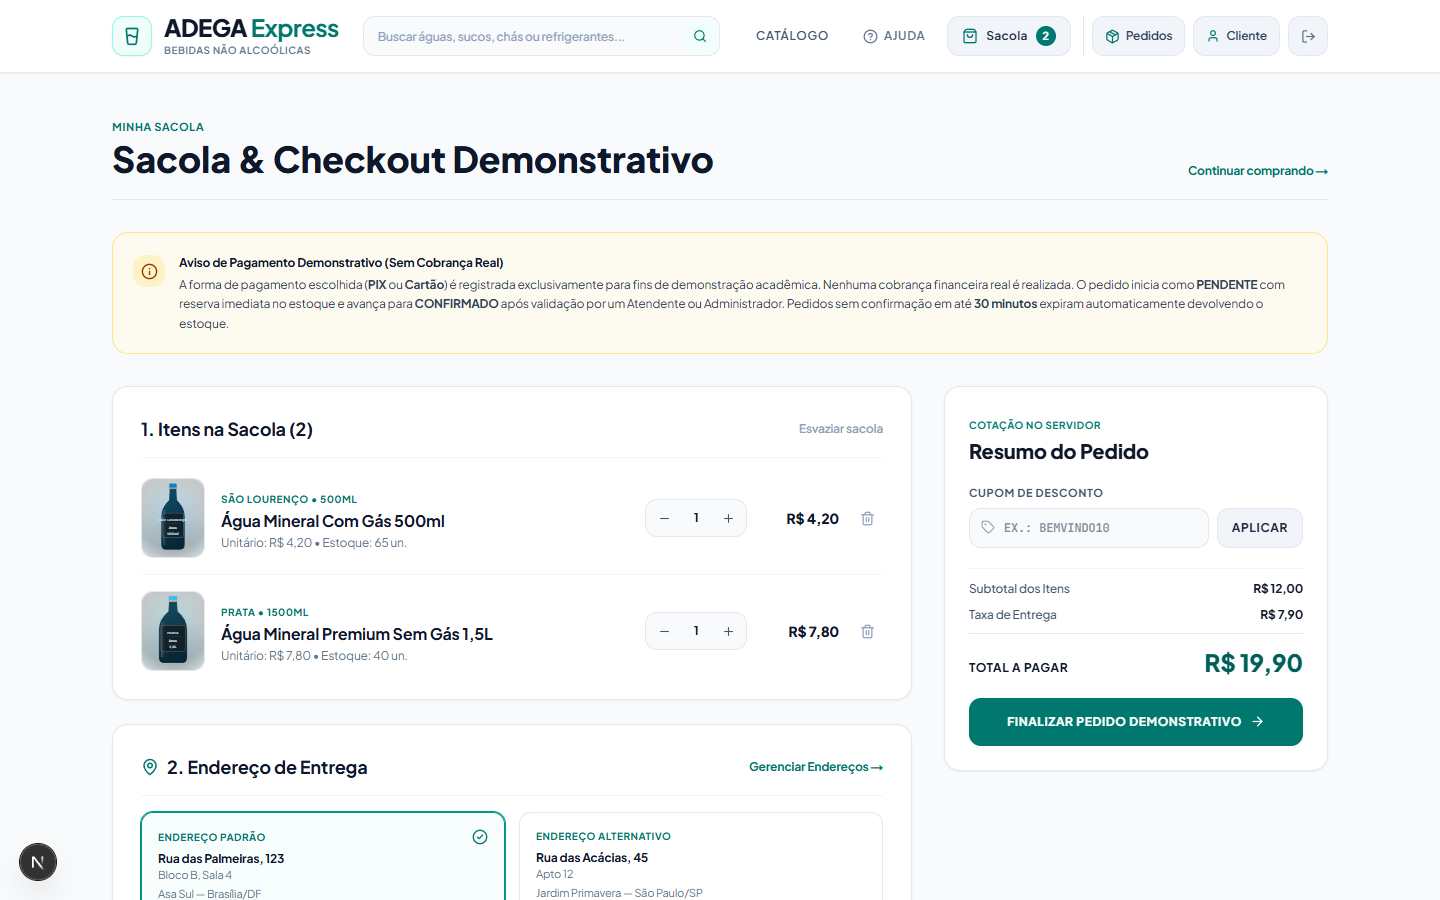
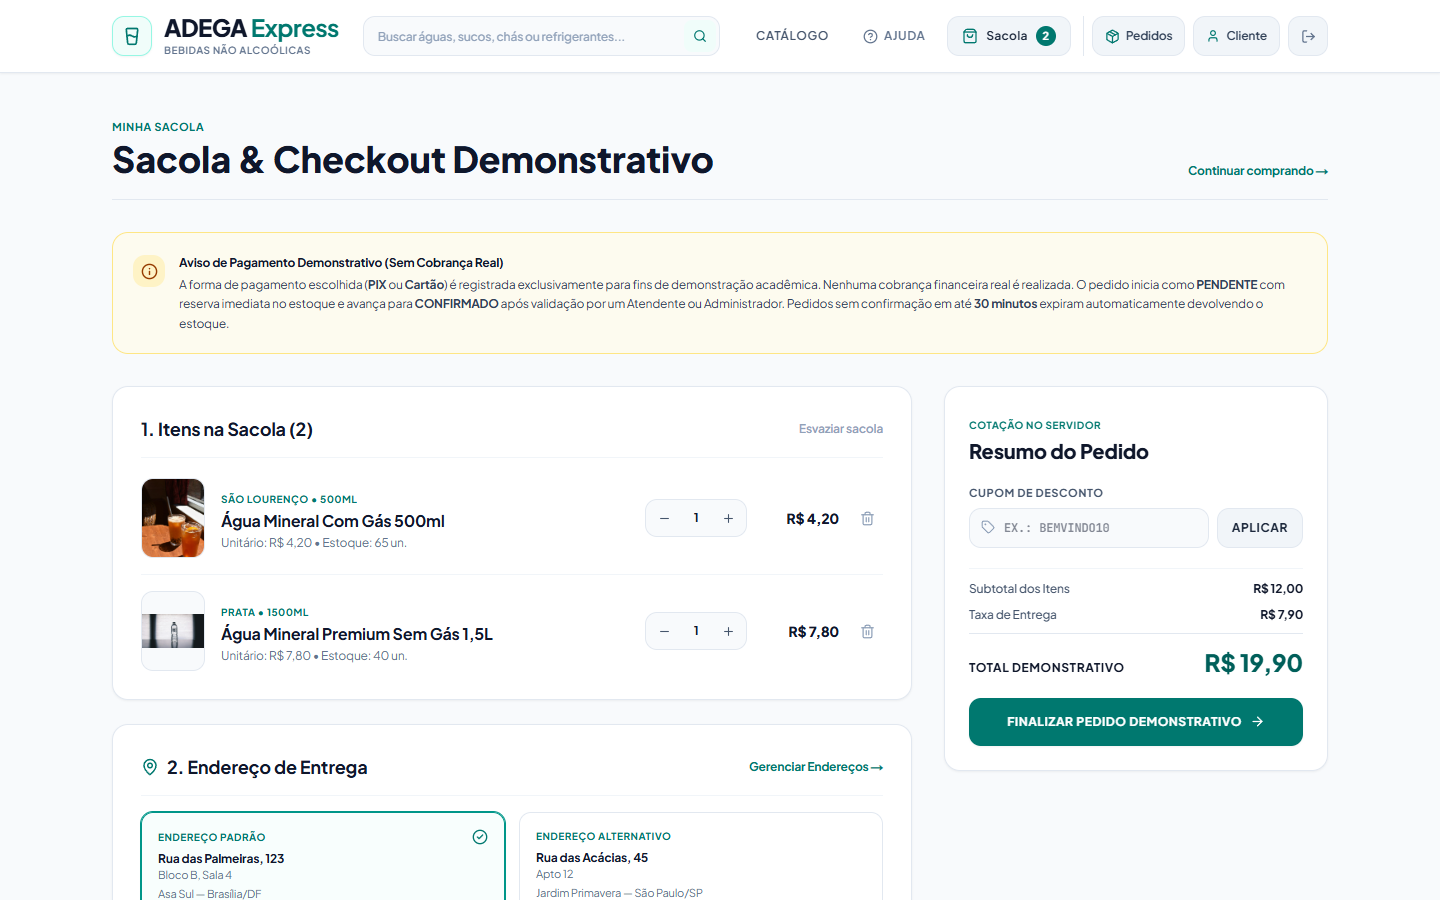
feat(catalog): adicionar fotos reais dos produtos no catalogo e atualizar prints

diff --git a/adega-express-backend/prisma/seed-demo.ts b/adega-express-backend/prisma/seed-demo.ts
@@ -196,6 +196,7 @@ async function seedDemo() {
       volume_ml: 500,
       abv_percent: '0.00',
       stock_quantity: 80,
+      image_url: '/products/agua-minalba-500ml.jpg',
       description: 'Água mineral natural pura de fonte montanhosa, embalagem 500ml prática.',
     },
     {
@@ -206,6 +207,7 @@ async function seedDemo() {
       volume_ml: 500,
       abv_percent: '0.00',
       stock_quantity: 65,
+      image_url: '/products/agua-sao-lourenco-500ml.jpg',
       description: 'Água mineral naturalmente gaseificada com borbulhas finas e equilíbrio mineral.',
     },
     {
@@ -216,6 +218,7 @@ async function seedDemo() {
       volume_ml: 1500,
       abv_percent: '0.00',
       stock_quantity: 40,
+      image_url: '/products/agua-prata-1500ml.jpg',
       description: 'Embalagem familiar de 1,5L com baixa mineralidade ideal para a mesa diária.',
     },
     {
@@ -226,6 +229,7 @@ async function seedDemo() {
       volume_ml: 350,
       abv_percent: '0.00',
       stock_quantity: 0, // ESTOQUE ZERO (Em Falta)
+      image_url: '/products/agua-tonica-antarctica-350ml.jpg',
       description: 'Refrigerante de água tônica com quinino e toques cítricos, zero açúcar.',
     },
 
@@ -238,6 +242,7 @@ async function seedDemo() {
       volume_ml: 1000,
       abv_percent: '0.00',
       stock_quantity: 35,
+      image_url: '/products/suco-aurora-uva-1000ml.jpg',
       description: 'Suco de uva integral 100% fruta, sem conservantes e rico em polifenóis.',
     },
     {
@@ -248,6 +253,7 @@ async function seedDemo() {
       volume_ml: 900,
       abv_percent: '0.00',
       stock_quantity: 50,
+      image_url: '/products/suco-natural-one-laranja-900ml.jpg',
       description: 'Laranja fresca espremida a frio, sabor doce natural e alto teor de Vitamina C.',
     },
     {
@@ -258,6 +264,7 @@ async function seedDemo() {
       volume_ml: 1000,
       abv_percent: '0.00',
       stock_quantity: 28,
+      image_url: '/products/suco-campo-largo-maca-1000ml.jpg',
       description: 'Suco de maçã clarificado 100% puro, sabor suave e equilibrado.',
     },
     {
@@ -268,6 +275,7 @@ async function seedDemo() {
       volume_ml: 1000,
       abv_percent: '0.00',
       stock_quantity: 30,
+      image_url: '/products/nectar-maguary-maracuja-1000ml.jpg',
       description: 'Polpa selecionada de maracujá, sabor marcante e refrescância cítrica.',
     },
 
@@ -280,6 +288,7 @@ async function seedDemo() {
       volume_ml: 350,
       abv_percent: '0.00',
       stock_quantity: 90,
+      image_url: '/products/refri-guarana-antarctica-350ml.jpg',
       description: 'O clássico refrigerante nacional produzido com sementes legítimas de guaraná da Amazônia.',
     },
     {
@@ -290,6 +299,7 @@ async function seedDemo() {
       volume_ml: 350,
       abv_percent: '0.00',
       stock_quantity: 120,
+      image_url: '/products/refri-coca-cola-350ml.jpg',
       description: 'Refrigerante de cola tradicional em lata de 350ml gelada.',
     },
     {
@@ -300,6 +310,7 @@ async function seedDemo() {
       volume_ml: 500,
       abv_percent: '0.00',
       stock_quantity: 45,
+      image_url: '/products/refri-sprite-lemon-500ml.jpg',
       description: 'Levemente gaseificada com suco de limão natural, refrescância instantânea.',
     },
     {
@@ -310,6 +321,7 @@ async function seedDemo() {
       volume_ml: 350,
       abv_percent: '0.00',
       stock_quantity: 25,
+      image_url: '/products/refri-ginger-ale-350ml.jpg',
       description: 'Mixer e refrigerante botânico de gengibre aromático e toques cítricos.',
     },
 
@@ -322,6 +334,7 @@ async function seedDemo() {
       volume_ml: 1500,
       abv_percent: '0.00',
       stock_quantity: 40,
+      image_url: '/products/cha-matte-leao-1500ml.jpg',
       description: 'Tostado de erva-mate enriquecido com suco de limão natural, formato 1,5L.',
     },
     {
@@ -332,6 +345,7 @@ async function seedDemo() {
       volume_ml: 450,
       abv_percent: '0.00',
       stock_quantity: 55,
+      image_url: '/products/cha-fuze-pessego-450ml.jpg',
       description: 'Folhas de chá preto infusionadas com sabor envolvente de pêssego.',
     },
     {
@@ -342,6 +356,7 @@ async function seedDemo() {
       volume_ml: 1000,
       abv_percent: '0.00',
       stock_quantity: 32,
+      image_url: '/products/cha-feel-good-verde-1000ml.jpg',
       description: 'Chá verde antioxidante aromatizado com limão e hortelã fresca, zero calorias.',
     },
     {
@@ -352,6 +367,7 @@ async function seedDemo() {
       volume_ml: 450,
       abv_percent: '0.00',
       stock_quantity: 0, // ESTOQUE ZERO (Em Falta)
+      image_url: '/products/cha-wewi-hibisco-450ml.jpg',
       description: 'Infusão orgânica botânica de flores de hibisco com notas de frutas vermelhas.',
     },
   ];

diff --git a/adega-express-backend/prisma/update-images.ts b/adega-express-backend/prisma/update-images.ts
@@ -1,0 +1,37 @@
+import { PrismaClient } from '@prisma/client';
+
+const db = new PrismaClient();
+
+const imageMapping: Record<string, string> = {
+  'Água Mineral Sem Gás 500ml': '/products/agua-minalba-500ml.jpg',
+  'Água Mineral Com Gás 500ml': '/products/agua-sao-lourenco-500ml.jpg',
+  'Água Mineral Premium Sem Gás 1,5L': '/products/agua-prata-1500ml.jpg',
+  'Água Tônica Citrus Sem Açúcar 350ml': '/products/agua-tonica-antarctica-350ml.jpg',
+  'Suco Integral de Uva Tinto 1L': '/products/suco-aurora-uva-1000ml.jpg',
+  'Suco de Laranja Integral 900ml': '/products/suco-natural-one-laranja-900ml.jpg',
+  'Suco de Maçã Integral 1L': '/products/suco-campo-largo-maca-1000ml.jpg',
+  'Néctar de Maracujá 1L': '/products/nectar-maguary-maracuja-1000ml.jpg',
+  'Refrigerante Guaraná Antarctica 350ml': '/products/refri-guarana-antarctica-350ml.jpg',
+  'Coca-Cola Original 350ml Lata': '/products/refri-coca-cola-350ml.jpg',
+  'Refrigerante Sprite Lemon Fresh 500ml': '/products/refri-sprite-lemon-500ml.jpg',
+  'Refrigerante de Gengibre Ginger Ale 350ml': '/products/refri-ginger-ale-350ml.jpg',
+  'Chá Gelado Matte Limão 1,5L': '/products/cha-matte-leao-1500ml.jpg',
+  'Chá Gelado de Pêssego 450ml': '/products/cha-fuze-pessego-450ml.jpg',
+  'Chá Verde com Limão e Hortelã 1L': '/products/cha-feel-good-verde-1000ml.jpg',
+  'Infusão Hibisco com Cranberry 450ml': '/products/cha-wewi-hibisco-450ml.jpg',
+};
+
+async function main() {
+  console.log('Atualizando imagens dos produtos no banco de dados...');
+  for (const [name, imageUrl] of Object.entries(imageMapping)) {
+    const updated = await db.product.updateMany({
+      where: { name },
+      data: { image_url: imageUrl },
+    });
+    console.log(`✅ ${name} -> ${imageUrl} (${updated.count} atualizados)`);
+  }
+}
+
+main()
+  .catch(console.error)
+  .finally(() => db.$disconnect());
